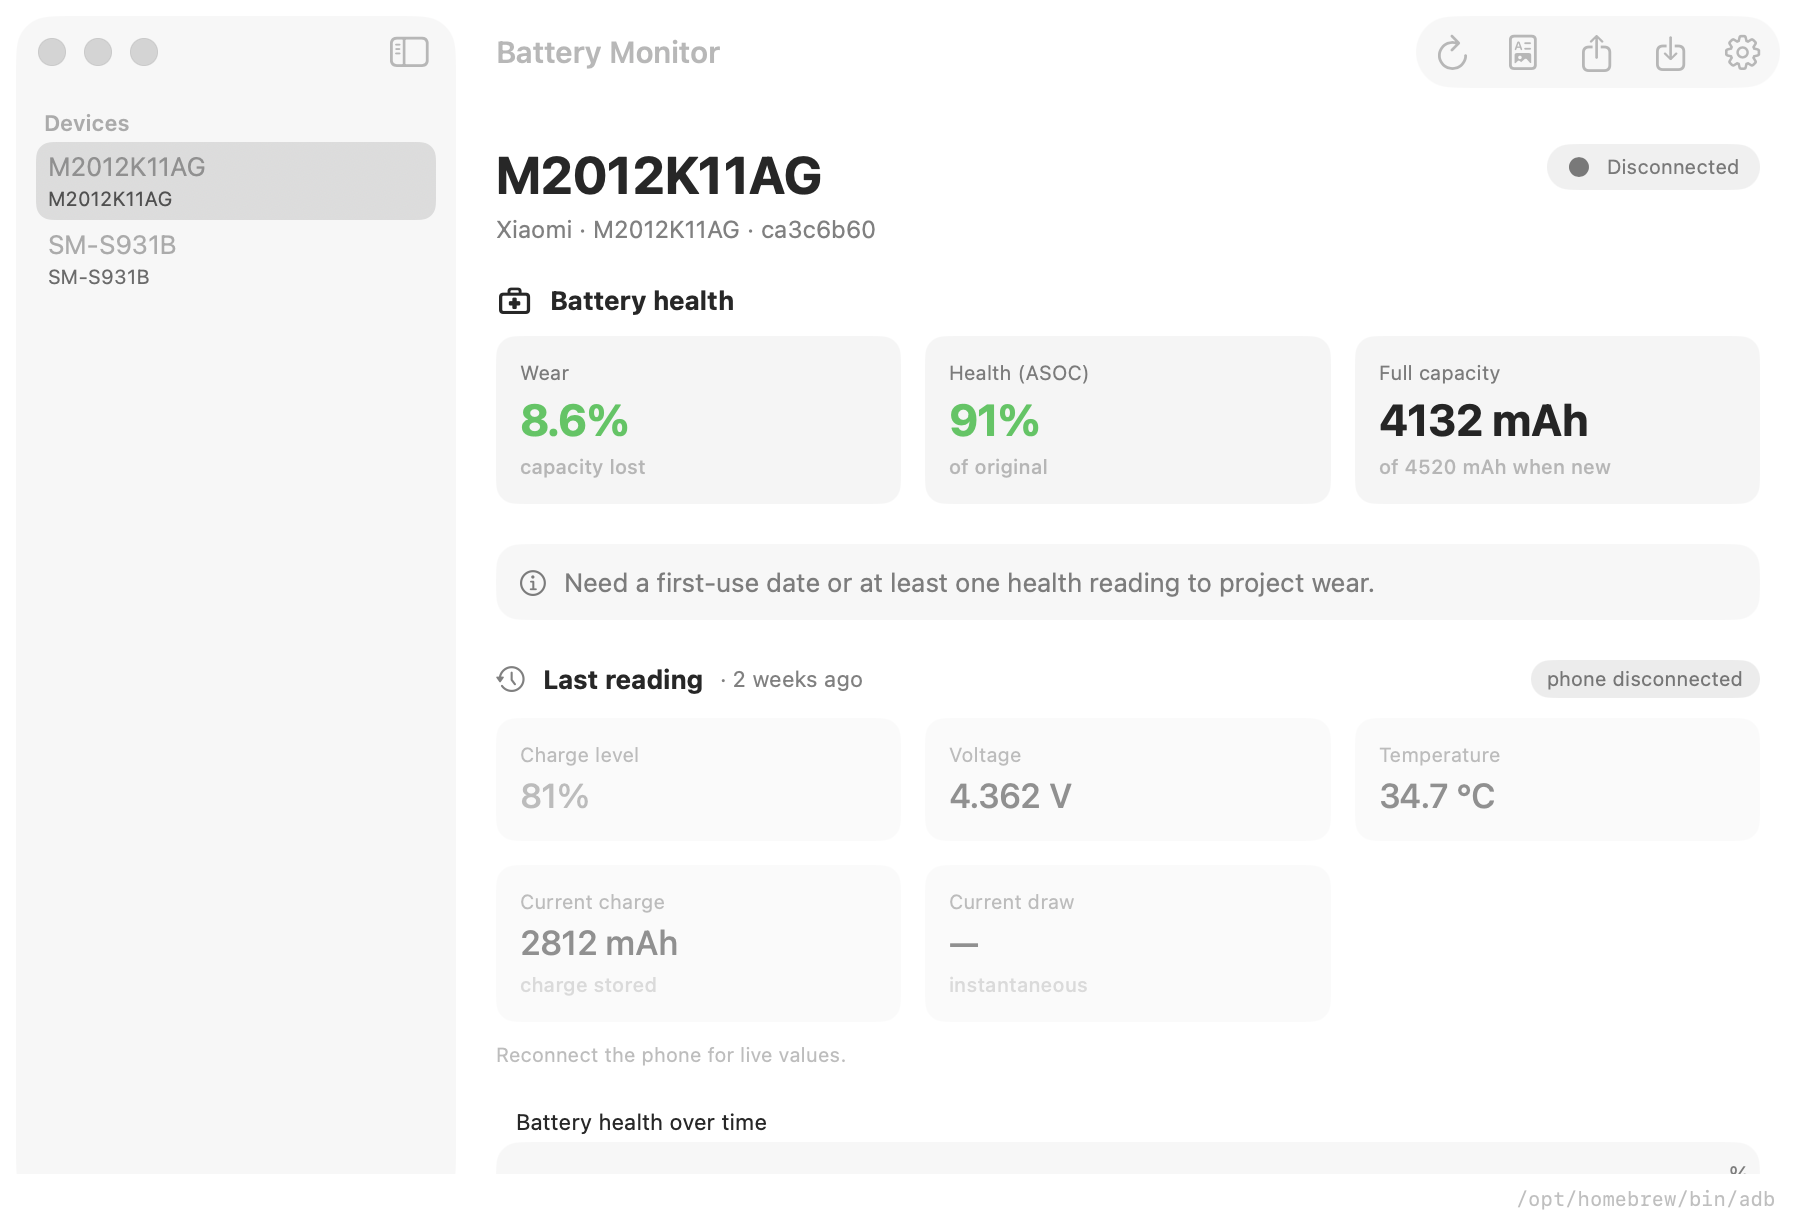
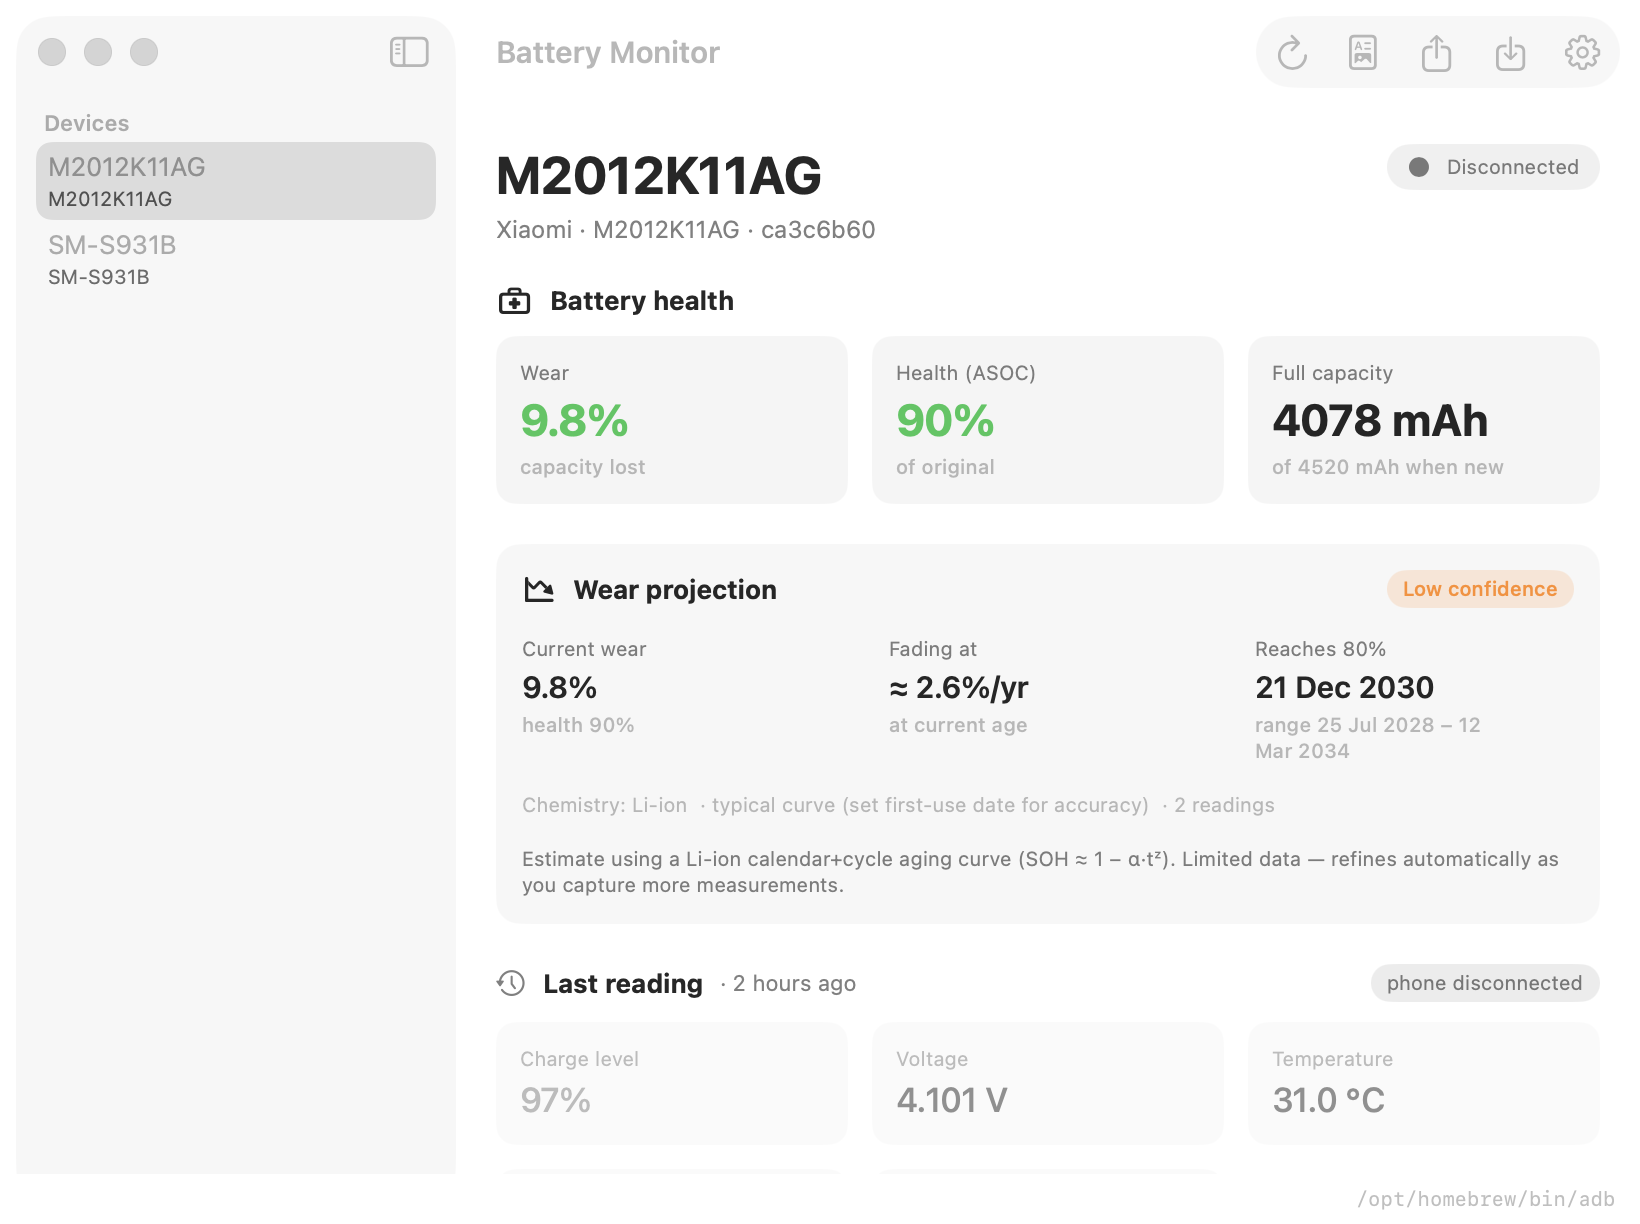
Docs: refresh screenshots (new wear panel + projection charts)

diff --git a/README.md b/README.md
@@ -15,6 +15,10 @@ Plug the phone into a Mac and Battery Monitor surfaces it.
 |---|---|
 | ![Battery Monitor](docs/screenshots/app-main.png) | ![PDF report](docs/screenshots/report.png) |
 
+Chemistry-aware wear projection (`SOH = 1 − α·tᶻ`) with a fixed-scale capacity chart and an 80% end-of-life line:
+
+![Wear projection charts](docs/screenshots/projection.png)
+
 > Verified without root on a Galaxy S25 (SM-S931B) and a Poco F3 (M2012K11AG).
 > See [`docs/samsung-battery-health-adb.md`](docs/samsung-battery-health-adb.md).
 